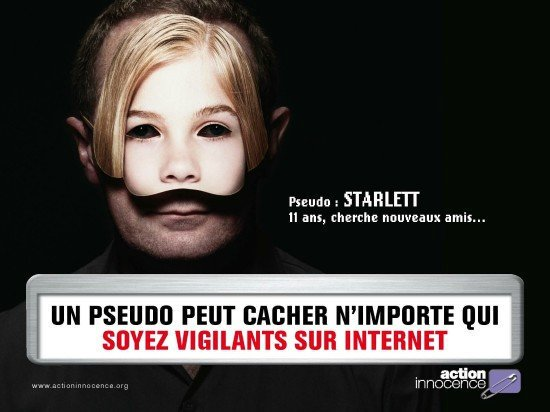
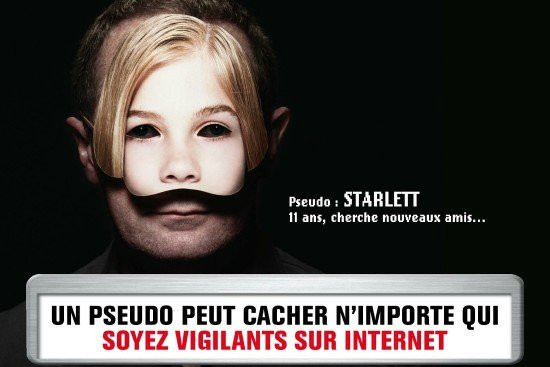
Update the homepage [MOD] : assets/CacherPseudo.jpg, crop the image [MOD] : Homepage.js/css, change text introduction size, align text with img in div, edit style, add an absolut text on the first img like on strikingly [MOD] : assets/canvas2.png, crop the old pictures because of too much empty blac

diff --git a/src/pages/HomePage.js b/src/pages/HomePage.js
@@ -2,7 +2,7 @@ import React, { Component } from 'react';
 import '../styles/bootstrap.css';
 import '../styles/HomePage.css';
 
-import canvas from '../assets/canvas.png';
+import canvas from '../assets/canvas2.png';
 import whois from '../assets/CacherPseudo.jpg';
 
 class HomePage extends Component {
@@ -10,23 +10,26 @@ class HomePage extends Component {
         return (
             <div>
                 <img src={canvas} alt="canvas" className="responsive-image"/>
-                <div className="row">
-                    <div className="col-sm">
+                <span className="text-span">
+                    Internet :
+                    <br/> êtes-vous conscients des dangers <br/>que rencontrent vos enfants ?
+                </span>
+                <div className="row responsive-image">
+                    <div className="img-intro">
                         <img src={whois} alt="whois"/>
                     </div>
-                    <div className="col-sm form-align">
-                        <h7 className="h7-font">
+                    <div className="txt-intro">
+                        <h3 className="h7-font">
                             Notre solution :
-                        </h7>
-                        <br/>
-                        <h9>
+                        </h3>
+                        <h6 className="h6-font">
                             Pour une navigation saine, utilisez Überschutz.
+                            <br/>
                             Ce logiciel non bloquant vous préviendra lorsque votre enfant se met en danger sur Internet.
-                        </h9>
-                        <br/>
-                        <h11 className="italic-txt">
+                        </h6>
+                        <h8 className="italic-txt">
                             Suicide, drogue, anorexie, harcèlement, contenus pornographiques ... Vous n'imaginez pas à quoi il est confronté.
-                        </h11>
+                        </h8>
                     </div>
                 </div>
                 <div className="background_1">

diff --git a/src/styles/HomePage.css b/src/styles/HomePage.css
@@ -8,12 +8,12 @@
     max-width: 100%;
 }
 
-.form-align {
-    align-items: center!important;
-    align-content: center;
-    justify-content: center;
-    justify-items: center;
-    text-align: center;
+.text-span {
+    position: absolute;
+    font-size: 17pt;
+    top: 300px;
+    left: 130px;
+    color: white;
 }
 
 .button-footer {
@@ -31,4 +31,13 @@
 
 .h7-font {
     font-weight: bold;
+}
+
+.h6-font {
+    font-size: 120%;
+}
+
+.txt-intro {
+    margin-top: 7%;
+    margin-left: 7%;
 }
